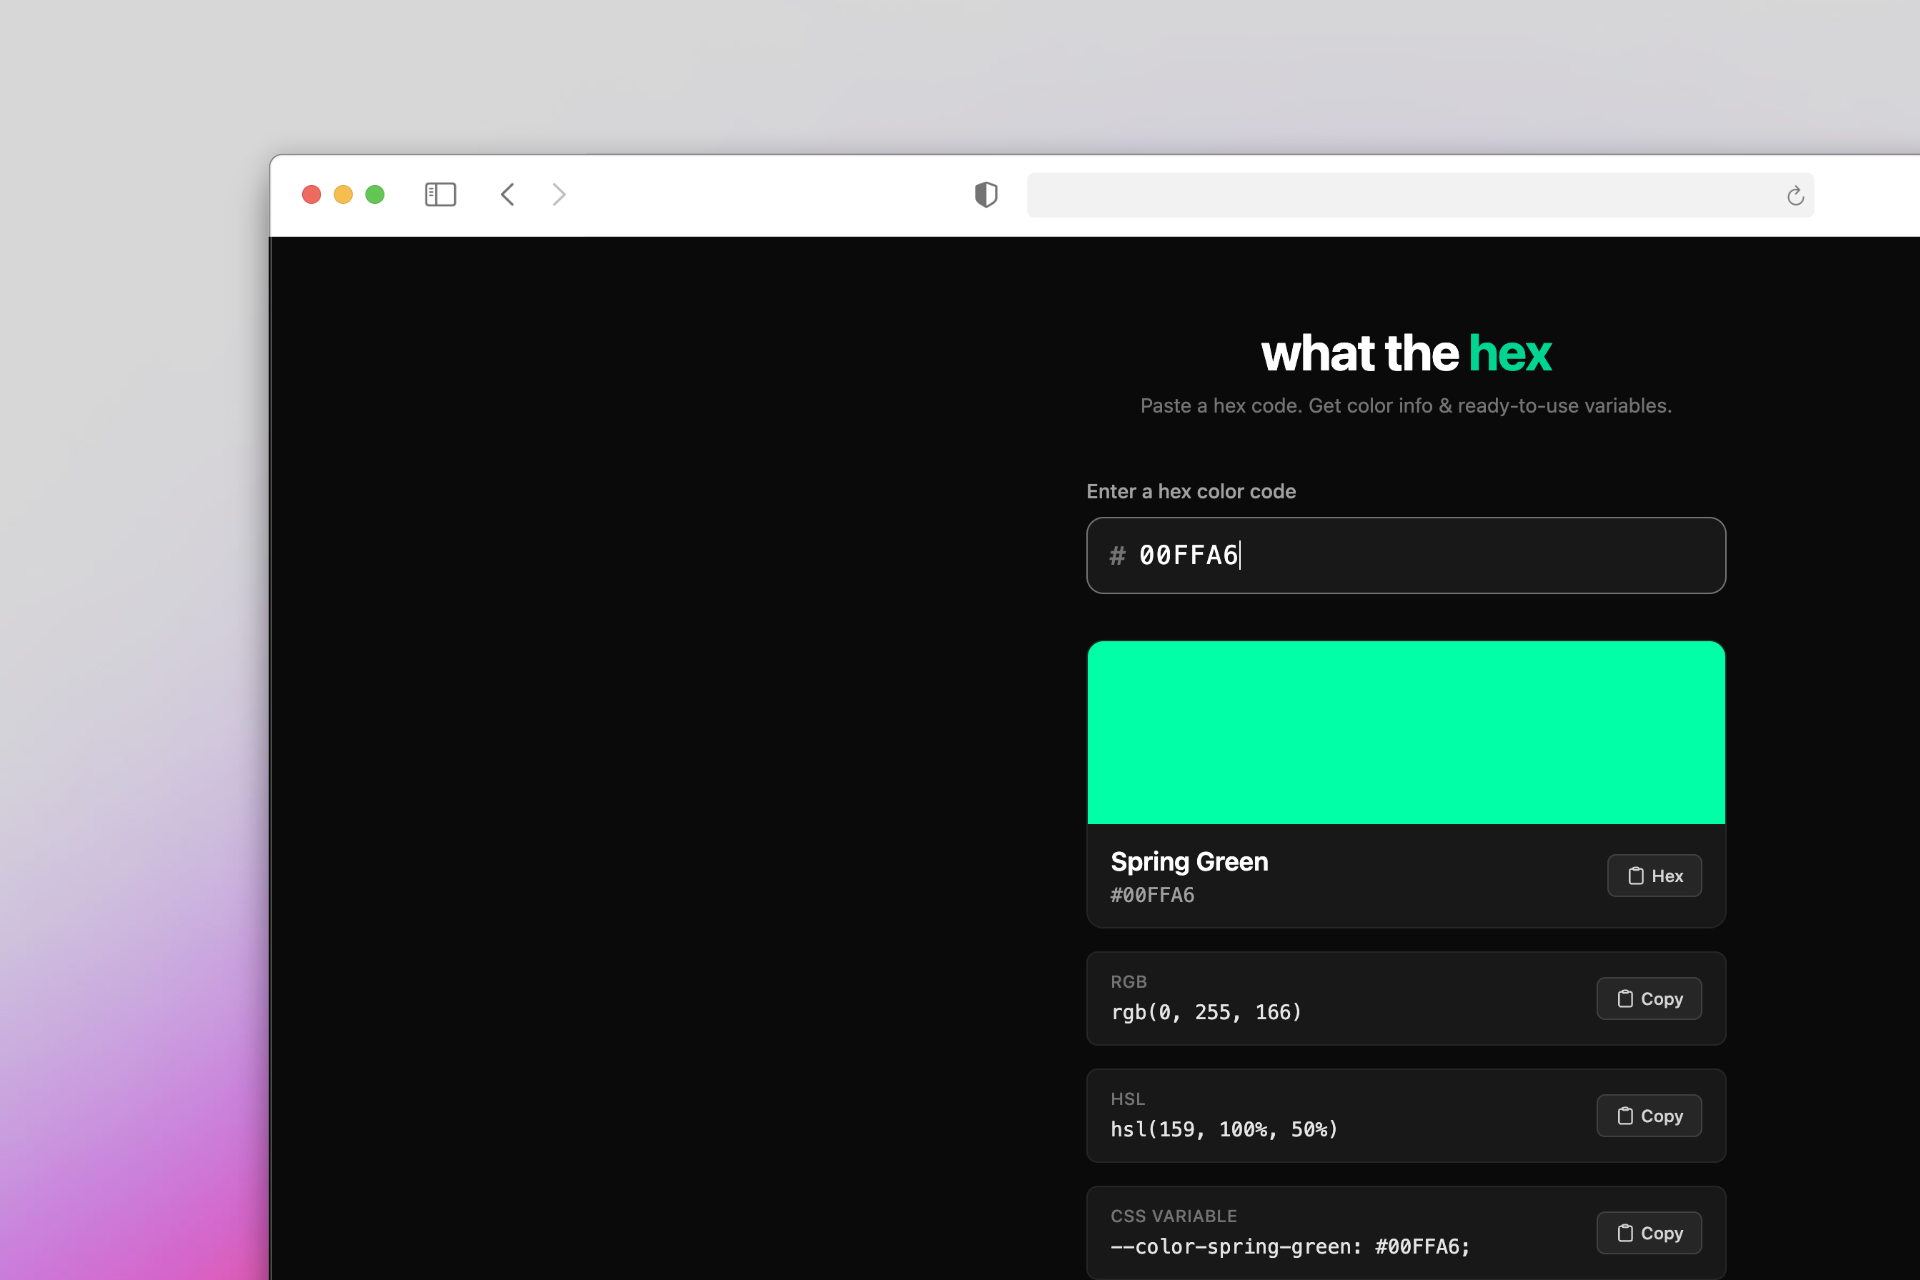
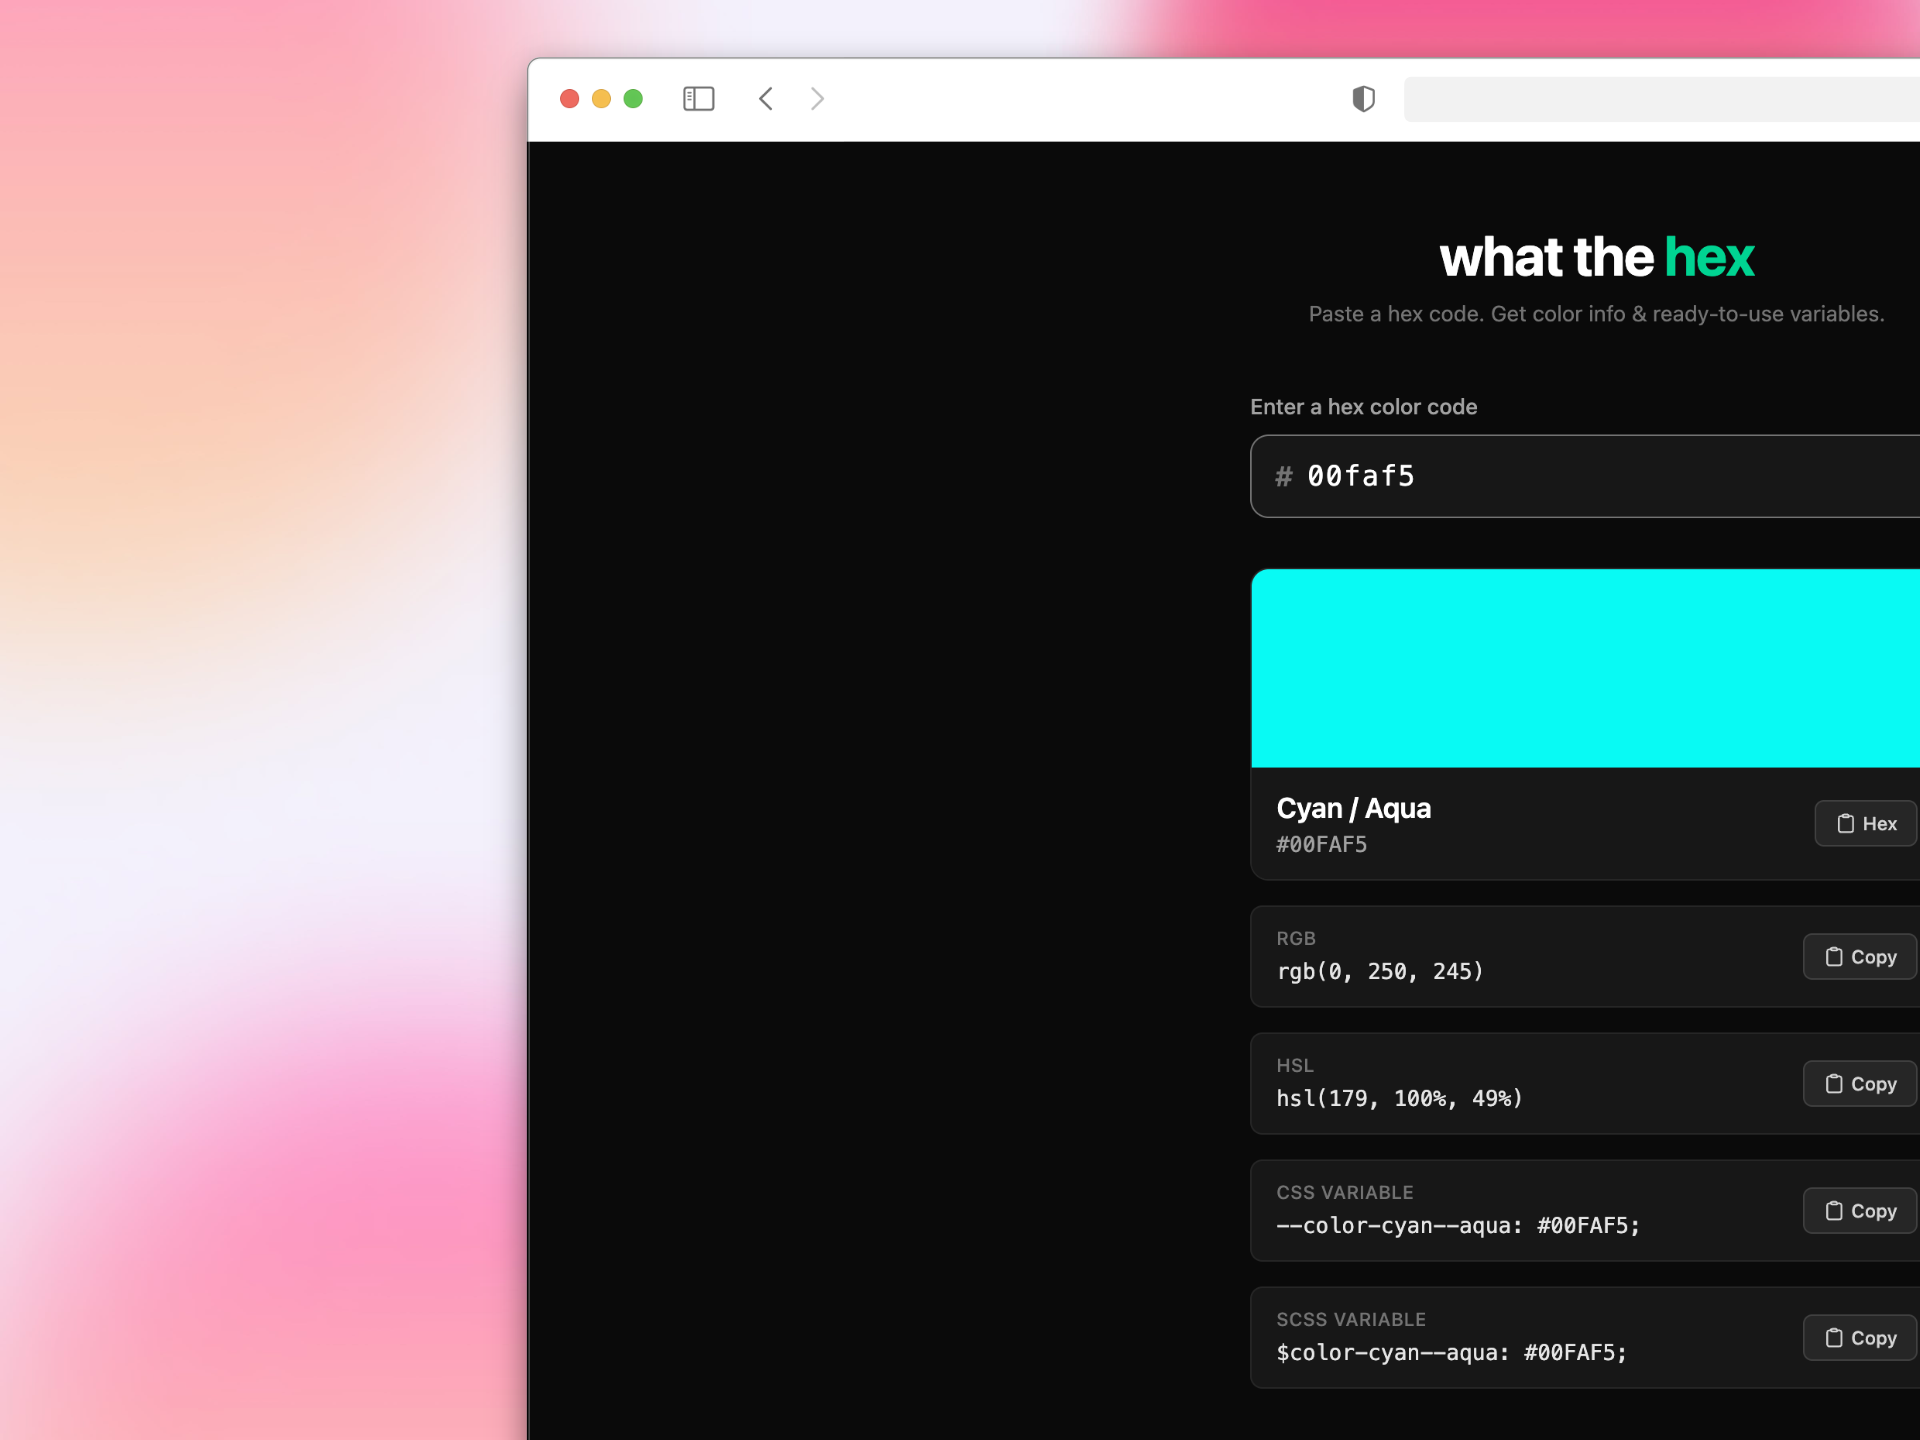
docs: add neuron to projects

diff --git a/components/Projects/Projects.tsx b/components/Projects/Projects.tsx
@@ -11,7 +11,7 @@ export const projects: ProjectData[] =
   config.projects as unknown as ProjectData[];
 
 // Only these projects are shown; others stay in config but are hidden
-const FEATURED_PROJECT_IDS = ["what-the-hex"];
+const FEATURED_PROJECT_IDS = ["neuron", "what-the-hex"];
 
 const featuredProjects = projects.filter((proj) =>
   FEATURED_PROJECT_IDS.includes(proj.id),
